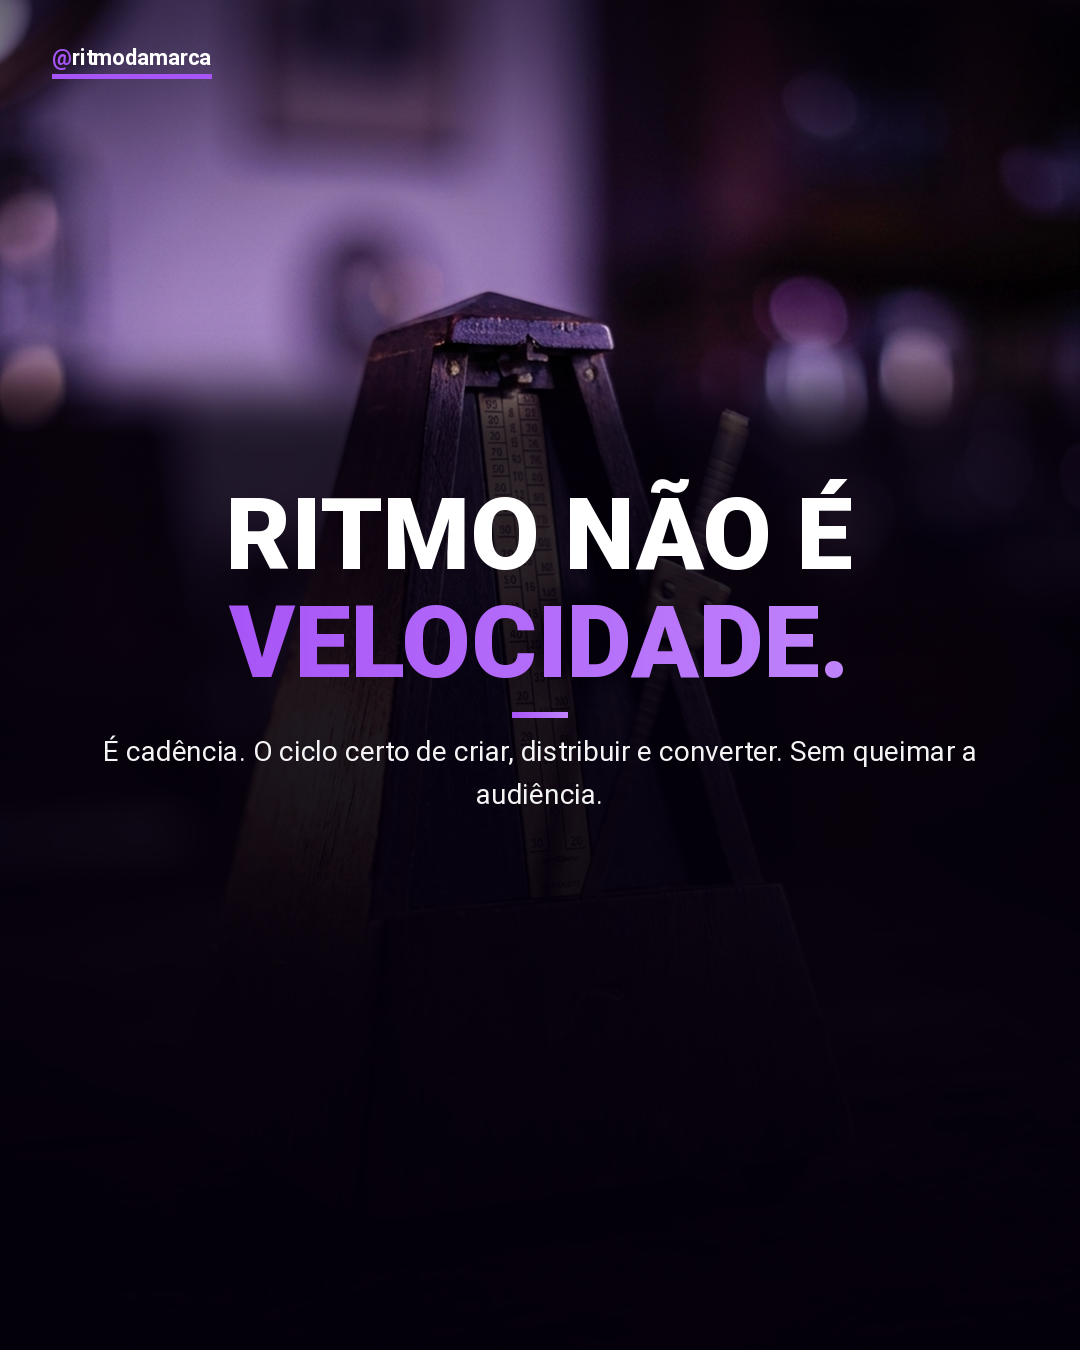
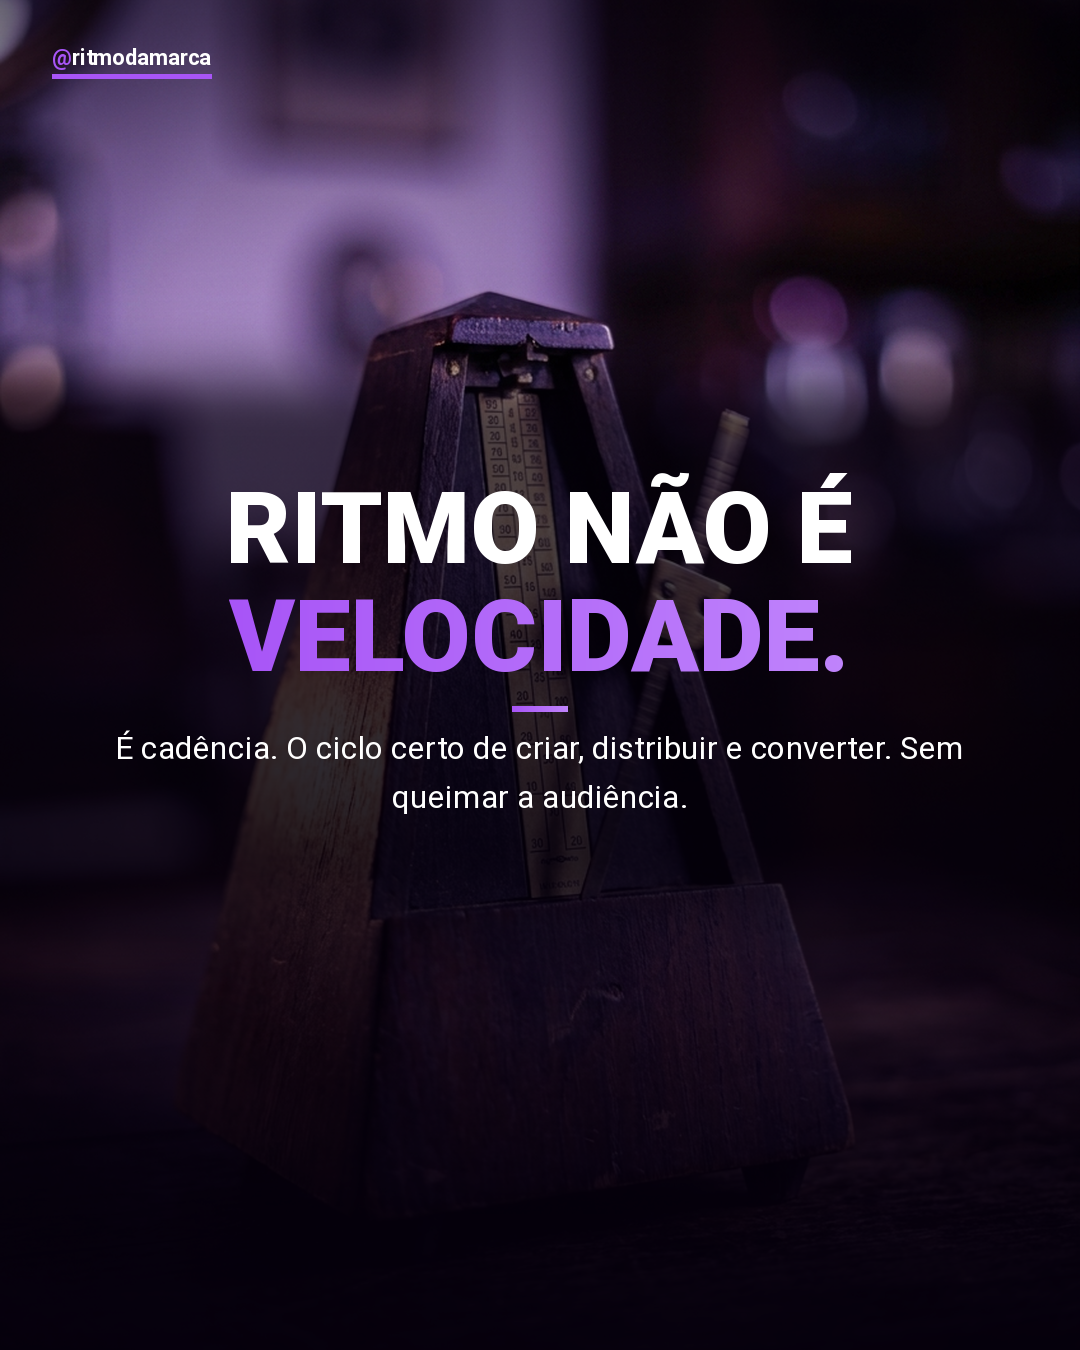
fix: painel de texto sem escuridão excessiva no rodapé
Painel com fade suave em cima e embaixo (não vai até H),
subtítulo branco 32px para leitura clara.

https://claude.ai/code/session_01S8Fw6EGhnFoALdeAFfWcbf

Changed region(s): [[0.0917, 0.3111, 0.8861, 0.6222], [0.7944, 0.7467, 0.8556, 0.7778], [0.7333, 0.6844, 0.7639, 0.7467]]

diff --git a/carrossel-ritmo/build_ritmo.py b/carrossel-ritmo/build_ritmo.py
@@ -123,22 +123,32 @@ def smoky_purple(img, top_s=160, bot_s=255, top_r=320, bot_r=800, blur=60):
     return base.convert("RGB")
 
 def text_panel(canvas, y_top, y_bot):
-    """Painel escuro sólido com fade nas bordas — garante leitura em qualquer fundo."""
-    IW = canvas.size[0]
-    pad = 80   # quantos px o fade se estende acima de y_top
+    """Painel escuro com fade suave em cima e embaixo — leitura clara sem bloco pesado."""
+    IW, IH = canvas.size
+    fade_top = 100   # px de fade acima do texto
+    fade_bot = 160   # px de fade abaixo do texto
+    max_alpha = 175  # opacidade central — legível sem sufocar a imagem
 
     layer = Image.new("RGBA", canvas.size, (0,0,0,0))
     dl    = ImageDraw.Draw(layer)
 
-    # área central totalmente sólida
-    dl.rectangle([0, y_top, IW, y_bot], fill=(4, 0, 10, 210))
+    # núcleo sólido apenas na faixa do texto
+    core_top = y_top
+    core_bot = min(y_bot, IH)
+    dl.rectangle([0, core_top, IW, core_bot], fill=(4, 0, 10, max_alpha))
 
     # fade de entrada (acima)
-    for iy in range(pad):
-        a = int(210 * (iy / pad) ** 1.6)
-        dl.line([(0, y_top - pad + iy), (IW, y_top - pad + iy)], fill=(4, 0, 10, a))
+    for iy in range(fade_top):
+        a = int(max_alpha * (iy / fade_top) ** 1.8)
+        dl.line([(0, core_top - fade_top + iy), (IW, core_top - fade_top + iy)],
+                fill=(4, 0, 10, a))
 
-    layer = layer.filter(ImageFilter.GaussianBlur(18))
+    # fade de saída (abaixo) — desaparece suavemente
+    for iy in range(fade_bot):
+        a = int(max_alpha * (1 - iy / fade_bot) ** 1.4)
+        dl.line([(0, core_bot + iy), (IW, core_bot + iy)], fill=(4, 0, 10, a))
+
+    layer = layer.filter(ImageFilter.GaussianBlur(14))
     base  = canvas.convert("RGBA"); base.alpha_composite(layer)
     return base.convert("RGB")
 
@@ -153,9 +163,9 @@ def make_open_slide(bg_path, headlines, subtitle, out_path,
 
     h_sz, fnt_h = fit_font(d, headlines, "black", h_start)
     lead    = int(h_sz * 1.08)
-    fnt_s   = F("regular", 28)
+    fnt_s   = F("regular", 32)
     sub_ls  = wrap(d, subtitle, fnt_s)
-    sub_h   = len(sub_ls) * int(28*1.55)
+    sub_h   = len(sub_ls) * int(32*1.55)
     badge_h = 60 if badge else 0
     extra_h = 80 if extra_fn else 0
     block_h = badge_h + lead*len(headlines) + 20+5+18 + sub_h + extra_h
@@ -165,7 +175,7 @@ def make_open_slide(bg_path, headlines, subtitle, out_path,
     y_start = min(y_start, H - 140 - block_h)
     y = y_start
 
-    canvas = text_panel(canvas, y - 60, H)
+    canvas = text_panel(canvas, y - 60, y_start + block_h + 40)
     d = ImageDraw.Draw(canvas)
 
     # ── Badge de pilar ─────────────────────────────────────────────
@@ -192,7 +202,7 @@ def make_open_slide(bg_path, headlines, subtitle, out_path,
         y += lead
 
     y += 20; y = sep_line(d, y) + 18
-    y  = draw_sub(canvas, d, subtitle, y, fnt_sz=28, color=W_SOFT)
+    y  = draw_sub(canvas, d, subtitle, y, fnt_sz=32, color=WHITE)
     if extra_fn: extra_fn(canvas, d, y)
     canvas.save(out_path); print(f"✓ {os.path.basename(out_path)}")
 
@@ -276,7 +286,7 @@ def make_clean_slide(headlines, subtitle, out_path, h_start=100,
         y += lead
 
     y += 20; y = sep_line(d, y) + 18
-    y  = draw_sub(canvas, d, subtitle, y, fnt_sz=28, color=W_SOFT)
+    y  = draw_sub(canvas, d, subtitle, y, fnt_sz=32, color=WHITE)
     if extra_fn: extra_fn(canvas, d, y)
     canvas.save(out_path); print(f"✓ {os.path.basename(out_path)}")
 
